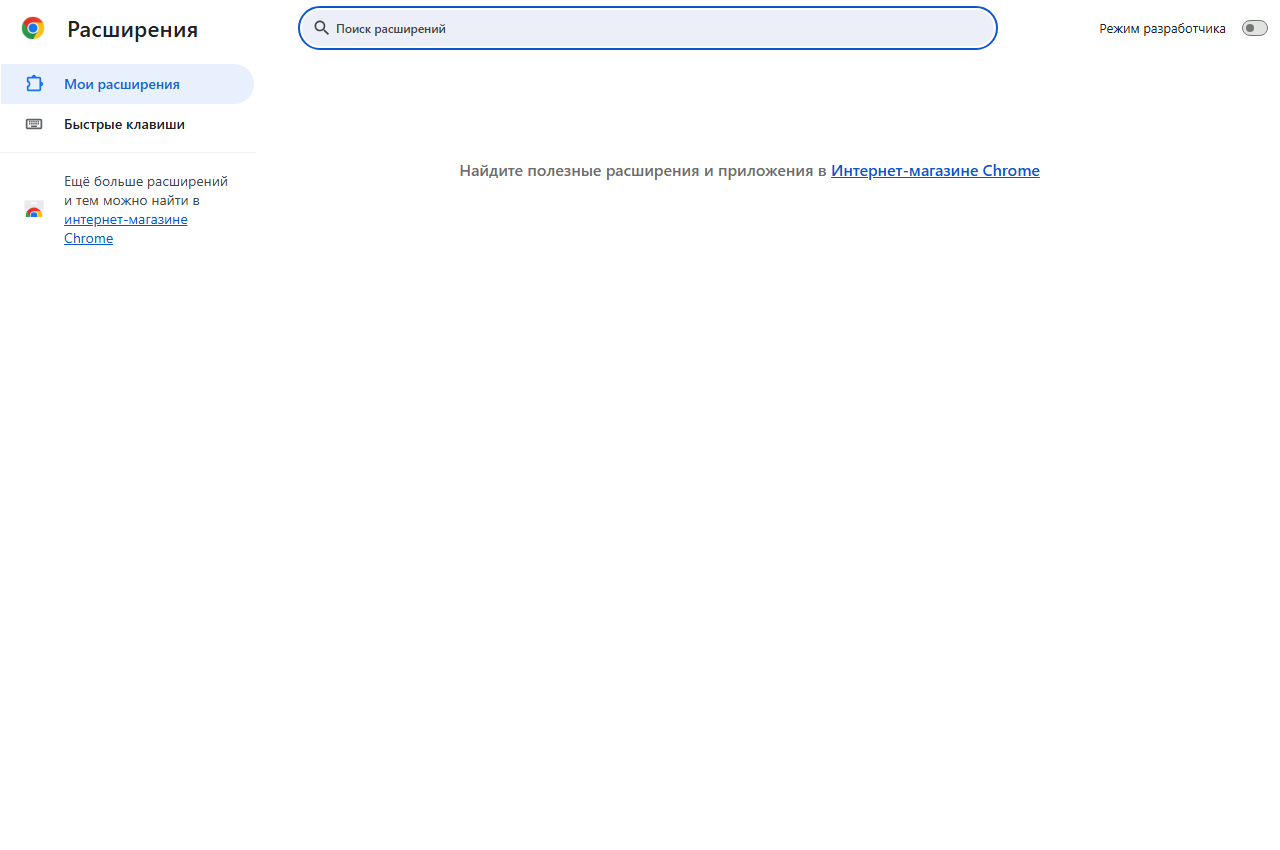
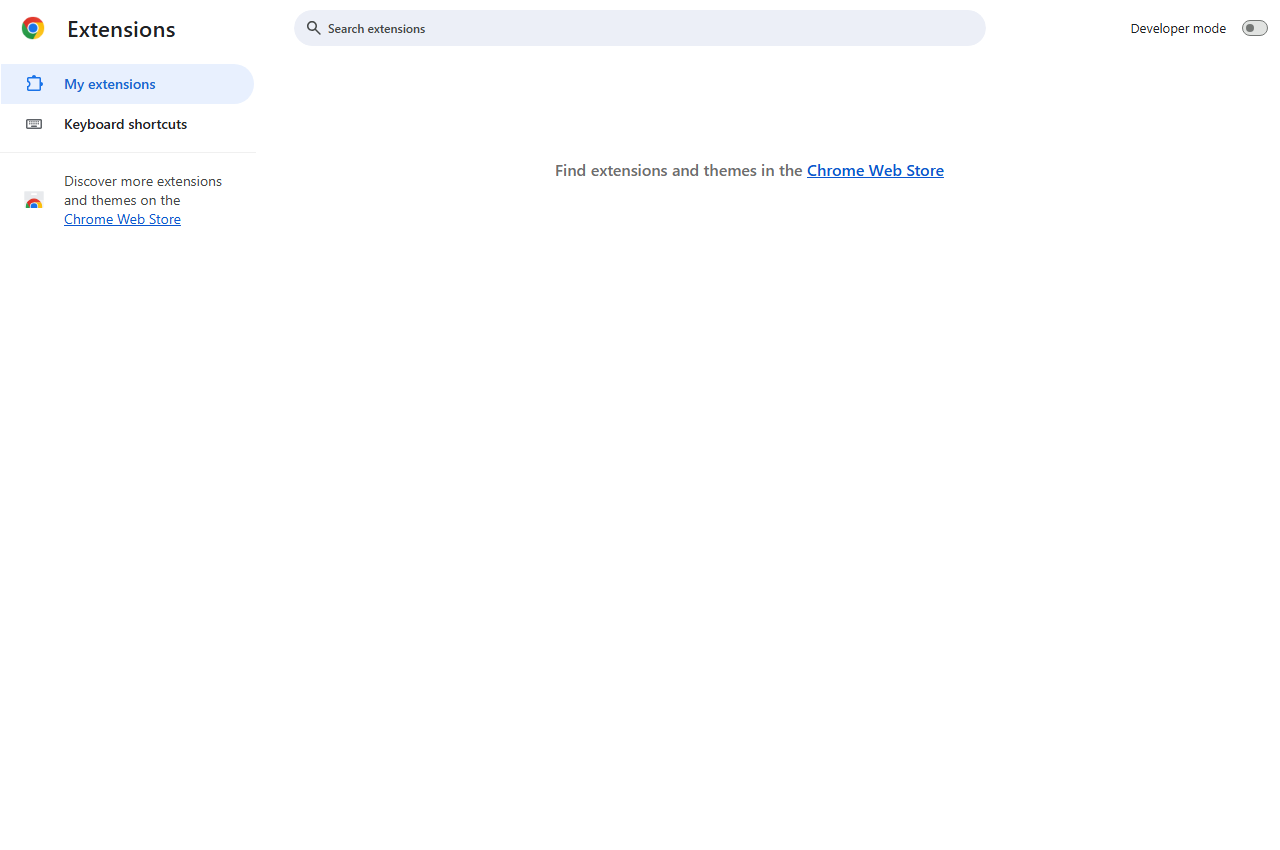
add image

diff --git a/docs/install.browser.ru.md b/docs/install.browser.ru.md
@@ -29,7 +29,7 @@
 1. Откройте новую вкладку, нажмите **Три точки - Расширения - Управление расширениями** или введите в адресную строку `chrome://extensions` и нажмите Enter.
 2. В правом верхнем углу включите **«Режим разработчика»**.
 
-![Страница chrome://extensions: переключатель «Режим разработчика» находится справа вверху](images/install-chrome.png)
+![Страница chrome://extensions: переключатель «Режим разработчика» находится справа вверху](images/install-chrome.ru.png)
 
 3. Нажмите появившуюся кнопку **«Загрузить распакованное расширение»**.
 4. Выберите папку `chrome/` из релиза. Выбирайте саму папку, а не ZIP-архив или файл манифеста.
@@ -54,7 +54,7 @@
 
 В меню должны появиться название, описание и кнопка **«Авторизовать инстанс»**.
 
-![Пример меню GREEN-API Connector с кнопкой «Авторизовать инстанс»](images/store-popup.png)
+![Пример меню GREEN-API Connector с кнопкой «Авторизовать инстанс»](images/store-popup.ru.png)
 
 ## 4. Запустите авторизацию
 
@@ -63,7 +63,7 @@
 3. Нажмите **«Связать устройство»** и пройдите вход в открывшемся окне WhatsApp.
 4. Не закрывайте окна до завершения авторизации.
 
-![Пример формы с полями ID инстанса, API-токена и кнопкой «Связать устройство»](images/store-authorization.png)
+![Пример формы с полями ID инстанса, API-токена и кнопкой «Связать устройство»](images/store-authorization.ru.png)
 
 Изображения меню и формы взяты из предпросмотра стандартного GREEN-API Connector. У White label будут ваши название, логотип и цвета.
 

diff --git a/docs/install.browser.md b/docs/install.browser.md
@@ -29,7 +29,7 @@ For local installation, choose the folder for your browser. Do not move or delet
 1. Open a new tab and click **Three dots - Extensions - Manage Extensions**, or type `chrome://extensions` into the address bar and press Enter.
 2. Turn on **Developer mode** in the top right corner.
 
-![The chrome://extensions page: the Developer mode switch is in the top right corner (Russian browser labels)](images/install-chrome.png)
+![The chrome://extensions page: the Developer mode switch is in the top right corner](images/install-chrome.png)
 
 3. Click the **Load unpacked** button that appears.
 4. Select the `chrome/` folder from the release. Select the folder itself, not the ZIP archive or the manifest file.
@@ -54,7 +54,7 @@ Click the extensions icon in the browser toolbar and select your application.
 
 The menu should show the name, the description and the **Authorize Instance** button.
 
-![Example GREEN-API Connector menu with the Authorize Instance button (Russian labels)](images/store-popup.png)
+![Example GREEN-API Connector menu with the Authorize Instance button](images/store-popup.png)
 
 ## 4. Start the authorization
 
@@ -63,7 +63,7 @@ The menu should show the name, the description and the **Authorize Instance** bu
 3. Click **Link device** and log in in the WhatsApp window that opens.
 4. Do not close the windows until the authorization is complete.
 
-![Example form with the instance ID and API token fields and the Link device button (Russian labels)](images/store-authorization.png)
+![Example form with the instance ID and API token fields and the Link device button](images/store-authorization.png)
 
 The menu and form images are taken from the preview of the standard GREEN-API Connector. A White label will have your name, logo and colors.
 
